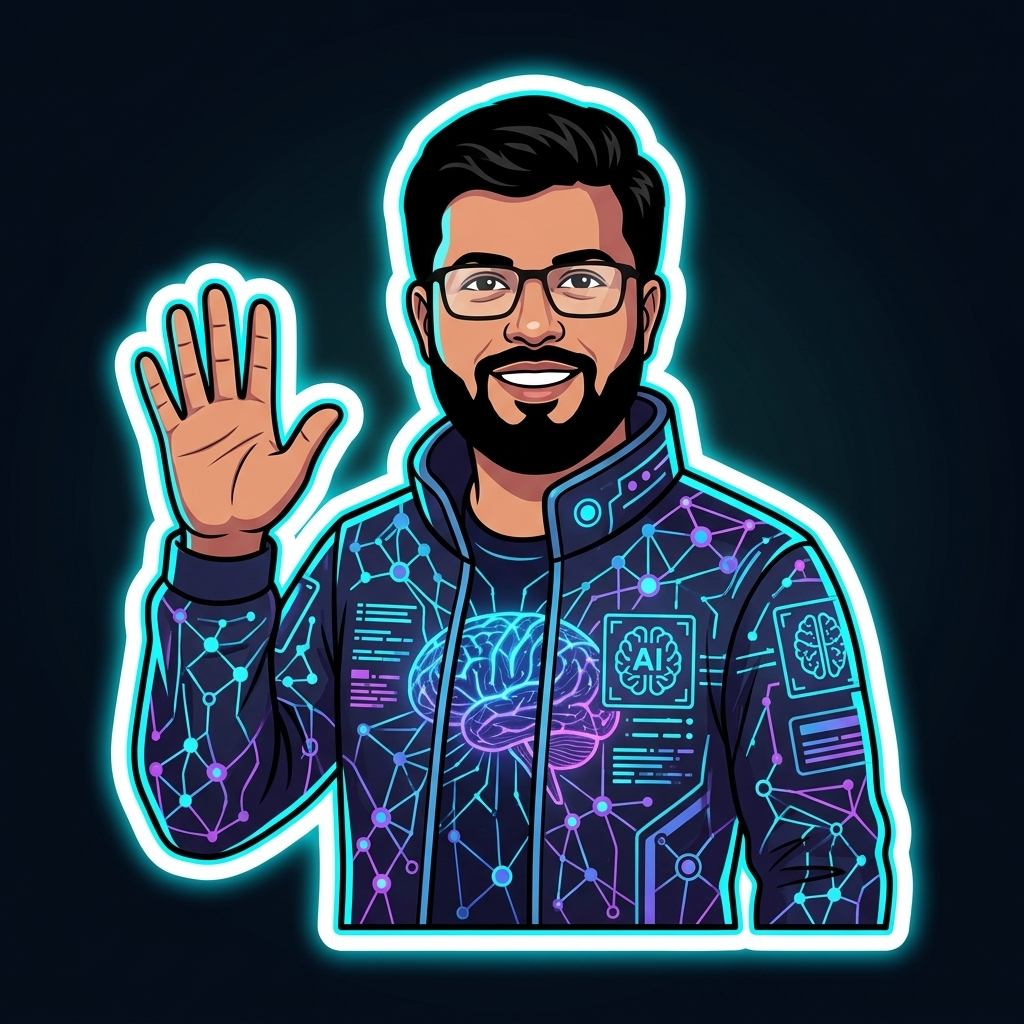
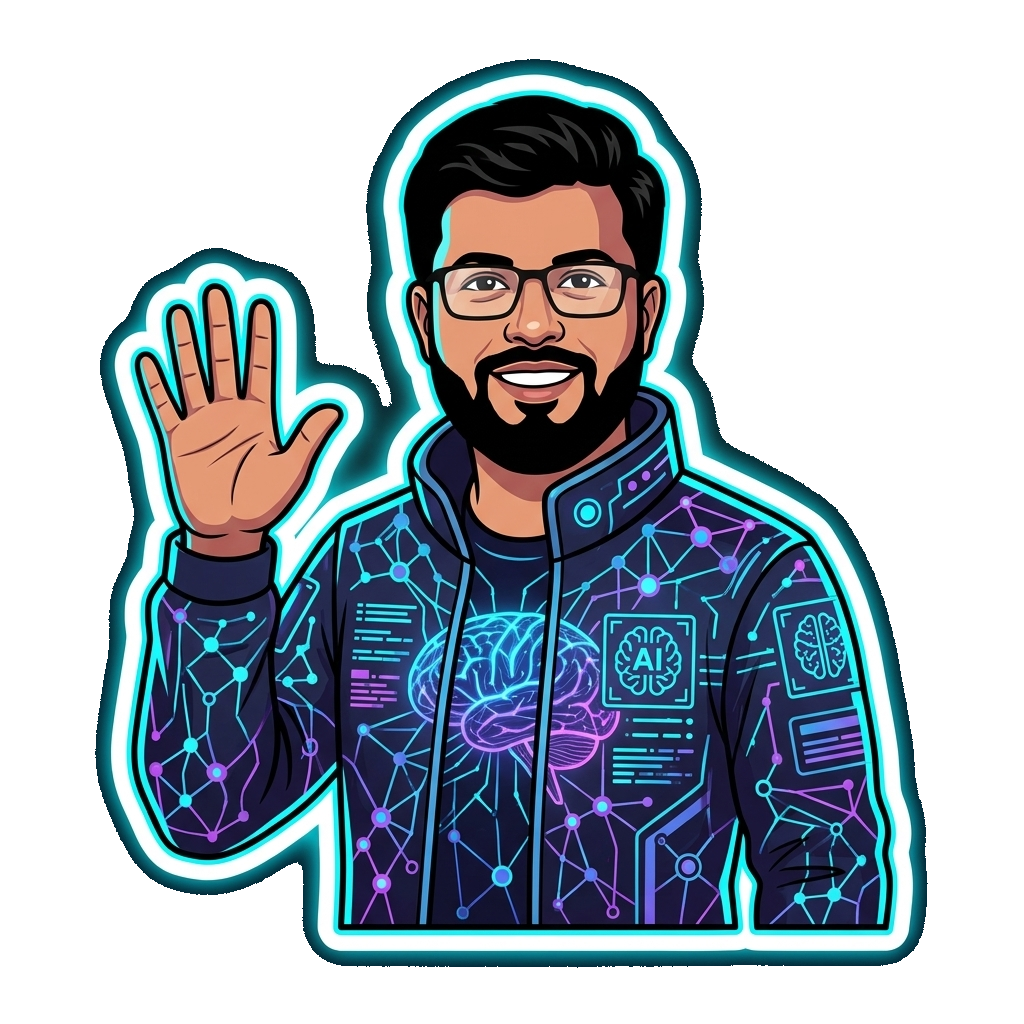
feat: increase sticker size to 12.5vw and make sticker background transparent

diff --git a/components/ChatWidget.tsx b/components/ChatWidget.tsx
@@ -537,7 +537,7 @@ export default function ChatWidget() {
                   animate={{ opacity: 1, scale: 1, x: 0 }}
                   exit={{ opacity: 0, scale: 0.8, x: 20 }}
                   onClick={handleOpenChat}
-                  className="fixed bottom-[110px] right-24 z-50 p-4 rounded-lg backdrop-blur-md cursor-pointer select-none"
+                  className="fixed bottom-[calc(6.25vw+10px)] right-[calc(12.5vw+30px)] z-50 p-4 rounded-lg backdrop-blur-md cursor-pointer select-none"
                   style={{
                     background: "rgba(10, 25, 47, 0.85)",
                     border: "1px solid rgba(0, 240, 255, 0.4)",
@@ -587,8 +587,12 @@ export default function ChatWidget() {
                   onClick={handleOpenChat}
                   className="fixed bottom-5 right-5 z-50 cursor-pointer select-none"
                   style={{
-                    width: "90px",
-                    height: "90px",
+                    width: "12.5vw",
+                    height: "12.5vw",
+                    minWidth: "120px",
+                    minHeight: "120px",
+                    maxWidth: "240px",
+                    maxHeight: "240px"
                   }}
               >
                 <img
